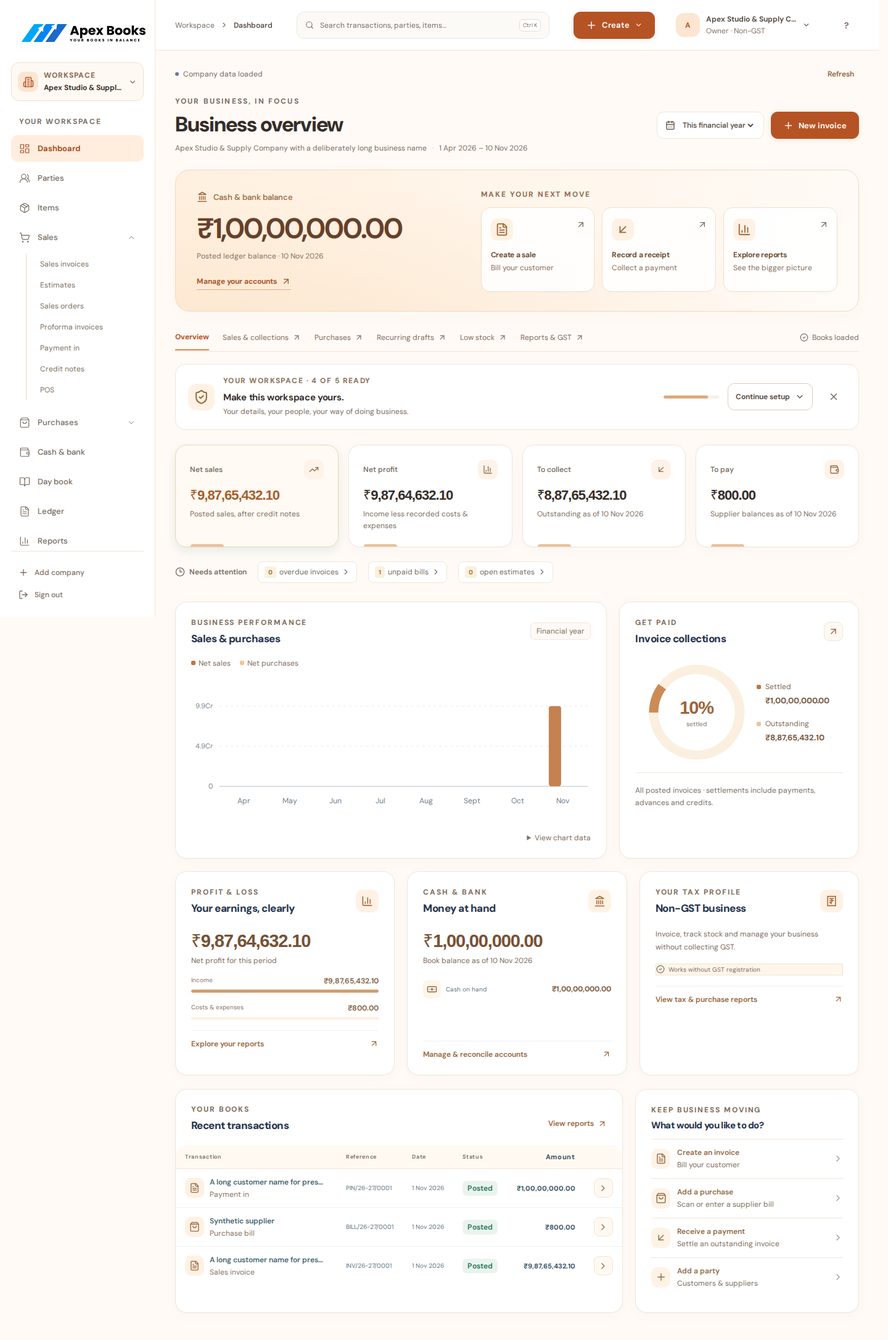
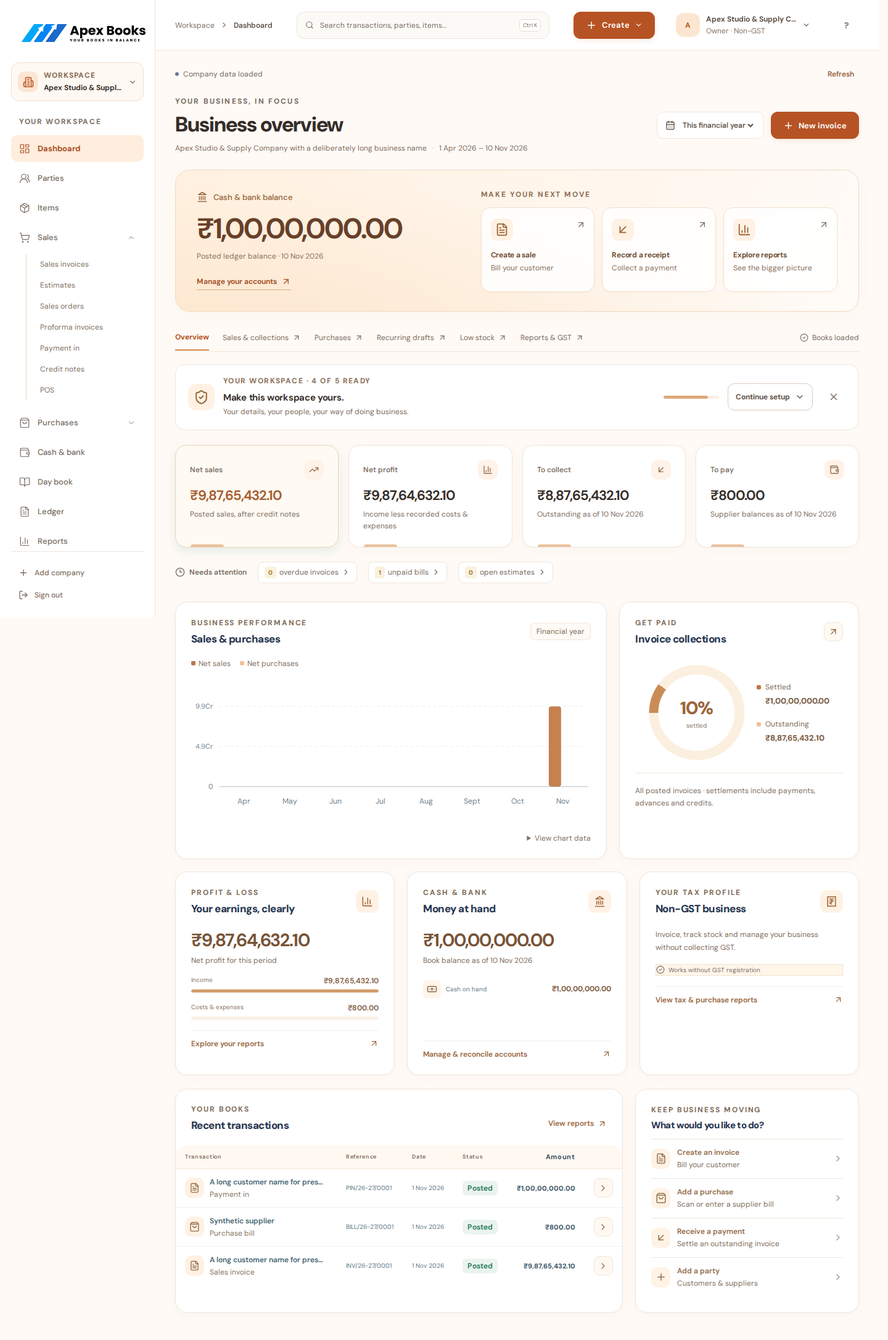
Unify financial typography and record verified Windows UI evidence

diff --git a/frontend/src/style.css b/frontend/src/style.css
@@ -13,10 +13,10 @@
 .upload-button{position:relative;overflow:hidden}.upload-button input{position:absolute;inset:0;opacity:0;cursor:pointer;width:100%;height:100%;margin:0}.bank-info{margin:0 0 18px}.bank-summary{margin-bottom:18px}.bank-match{display:flex;align-items:center;gap:7px;min-width:210px}.bank-match select{margin:0;min-width:135px}.bank-match input{width:100px;min-width:85px;margin:0}.bank-match-detail{display:grid;gap:6px;min-width:320px}.bank-allocation-status{font-size:12px;font-weight:700;color:#2d3f5e}.bank-allocation-row{display:flex;justify-content:space-between;align-items:center;gap:10px;font-size:12px}.bank-ref{display:block;color:#a1a5ad;margin-top:3px}
 .member-settings{border-top:1px solid #edeef1;border-bottom:1px solid #edeef1;padding:24px 0;margin:22px 0}.member-settings p{margin-top:5px}.member-form{display:grid;grid-template-columns:minmax(180px,2fr) minmax(110px,1fr) auto;gap:12px;align-items:end;margin-top:18px}.member-form .button{margin-bottom:0}@media(max-width:700px){.member-form{grid-template-columns:1fr}.member-form .button{width:100%}}
 .ocr-box{padding:15px;background:#f1f3f7;border:1px solid #e1e6ee;border-radius:8px}.ocr-box strong{font-size:12px}.ocr-box p{margin:4px 0 8px}.ocr-box input{padding:8px;height:auto;background:#ffffff}.ocr-box small{display:block;margin-top:6px;color:#546480}
-:root{font-family:'IBM Plex Sans',sans-serif;color:#242c3b;background:#f5f6f8;font-synthesis:none}*{box-sizing:border-box}body{margin:0}button,input,select{font:inherit}button{cursor:pointer}button:disabled{opacity:.55;cursor:not-allowed}h1,h2,p{margin:0}h1,h2{font-family:'IBM Plex Sans',sans-serif;letter-spacing:-.035em}h1{font-size:28px;font-weight:800}h2{font-size:17px;font-weight:800}p{color:#898e97;font-size:13px;line-height:1.6}.app{display:flex;min-height:100vh}.sidebar{position:fixed;inset:0 auto 0 0;width:240px;background:#ffffff;border-right:1px solid #e9ebee;display:flex;flex-direction:column;padding:25px 16px 15px;z-index:5}.brand{display:flex;align-items:center;gap:10px;font-family:'IBM Plex Sans',sans-serif;font-size:20px;font-weight:800;letter-spacing:-1px;padding:0 8px}.brand-mark{display:grid;place-items:center;width:34px;height:34px;border-radius:10px;background:#193057;color:#ffffff;font-size:21px;font-style:italic}.brand-light{font-weight:400}.brand small{display:block;font:700 7px 'IBM Plex Sans',sans-serif;letter-spacing:1.2px;color:#a3a8b0;margin-top:1px}.company-switch{display:flex;align-items:center;gap:10px;margin:32px 0 25px;background:#f5f6f8;border:1px solid #e9ebee;border-radius:9px;padding:10px}.company-icon{width:34px;height:34px;display:grid;place-items:center;background:#e5e8ee;color:#34496c;border-radius:7px}.company-text{min-width:0;flex:1}.company-text small{display:block;font-size:9px;font-weight:700;letter-spacing:.08em;color:#a0a5ad}.company-text select{border:0;outline:0;background:transparent;appearance:none;width:100%;font-weight:700;font-size:12px;color:#343c4b;text-overflow:ellipsis}.nav-label,.eyebrow{font-size:9px;letter-spacing:.13em;font-weight:700;color:#9ca1a9}.nav-label{padding:0 11px;margin-bottom:10px}nav{overflow:auto;flex:1}.nav-item,.subnav button,.sidebar-bottom button{border:0;background:none;width:100%;text-align:left;color:#717781}.nav-item{height:40px;display:flex;align-items:center;gap:12px;padding:0 11px;border-radius:7px;font-size:13px;font-weight:600}.nav-item span{flex:1}.nav-item.active,.subnav button.active{color:#19325c;background:#eaedf3}.nav-item svg:last-child.rotated{transform:rotate(180deg)}.subnav{border-left:1px solid #e4e7eb;margin:2px 0 5px 20px;padding-left:13px}.subnav button{font-size:12px;padding:8px 10px;border-radius:6px}.sidebar-bottom{border-top:1px solid #edeef0;padding-top:10px}.sidebar-bottom button{display:flex;gap:10px;align-items:center;padding:9px;font-size:12px}.main{margin-left:240px;width:calc(100% - 240px)}.topbar{height:68px;background:#ffffff;border-bottom:1px solid #e9ebee;display:flex;align-items:center;justify-content:space-between;padding:0 34px}.breadcrumbs{display:flex;align-items:center;gap:10px;font-size:12px;color:#a1a5ad}.breadcrumbs strong{color:#4b5360}.header-right{display:flex;align-items:center;gap:12px}.header-date{font-size:12px;color:#9196a0}.header-divider{height:25px;width:1px;background:#e7e9ec;margin:0 8px}.avatar{width:33px;height:33px;border-radius:50%;background:#e5e9ef;display:grid;place-items:center;color:#334b74;font-size:12px;font-weight:700}.header-user{font-weight:700;font-size:12px}.header-user small{display:block;font-size:10px;color:#a0a5ad;font-weight:400;margin-top:2px}.content{max-width:1600px;margin:auto;padding:38px 36px}.page-heading{display:flex;align-items:end;justify-content:space-between;gap:20px;margin-bottom:28px}.page-heading .eyebrow{margin-bottom:9px}.green{color:#4b628b!important}.page-heading h1 span{color:#b9c1cf;font-size:20px}.page-heading p{margin-top:7px}.button{height:40px;border-radius:7px;padding:0 15px;display:inline-flex;align-items:center;justify-content:center;gap:8px;font-size:12px;font-weight:700;border:1px solid transparent;white-space:nowrap}.primary{background:#1d3660;color:white}.primary:hover{background:#152a4d}.secondary{background:white;color:#4b5360;border-color:#e1e4e9}.summary-grid{display:grid;grid-template-columns:repeat(4,1fr);gap:16px}.summary-card,.panel{background:#ffffff;border:1px solid #e8eaee;border-radius:10px;box-shadow:0 3px 12px rgba(32,65,50,.025)}.summary-card{padding:19px 20px 18px}.summary-top{display:flex;align-items:center;justify-content:space-between;color:#989da6;font-size:9px;font-weight:700;letter-spacing:.09em}.summary-icon{width:32px;height:32px;border-radius:8px;display:grid;place-items:center}.summary-icon.green,.quick-icon{background:#eaeef4;color:#415a85}.summary-icon.orange{background:#fcf1e6;color:#cf8d51}.summary-icon.blue{background:#eaeef5;color:#6a81a9}.summary-icon.purple{background:#f2eef7;color:#9b85b4}.summary-card>strong{display:block;font-family:'IBM Plex Sans',sans-serif;font-size:23px;letter-spacing:-.04em;margin:14px 0 6px}.summary-card>small{color:#a2a6ae;font-size:11px}.dashboard-grid{display:grid;grid-template-columns:minmax(0,2fr) minmax(280px,1fr);gap:16px;margin-top:20px}.panel{overflow:hidden}.panel-header{display:flex;justify-content:space-between;align-items:center;gap:15px;padding:23px 23px 18px}.panel-header h2,.quick h2{margin-top:7px}.panel-header p,.quick>p{margin-top:4px}.text-button{display:flex;gap:5px;align-items:center;border:0;background:none;color:#415983;font-weight:700;font-size:11px}.table-wrap{overflow:auto}table{width:100%;border-collapse:collapse;min-width:530px}th{text-align:left;background:#f9fafb;color:#a1a5ad;font-size:9px;letter-spacing:.08em;font-weight:700;padding:12px 23px}td{border-top:1px solid #f1f2f4;padding:13px 23px;color:#828891;font-size:12px}.right{text-align:right}.amount{font-weight:700;color:#343d4d}.row-name{display:flex;align-items:center;gap:10px;color:#3d4655}.row-name strong,.row-name small{display:block}.row-name small{font-size:10px;color:#aaaeb5;margin-top:4px}.row-icon,.quick-icon{display:grid;place-items:center;width:36px;height:36px;border-radius:8px;background:#f1f3f6;color:#7082a0;flex-shrink:0}.pill{background:#f2f3f6;color:#6a7588;padding:5px 8px;border-radius:5px;font-size:10px}.empty{text-align:center;padding:45px 20px 50px}.empty span{display:grid;place-items:center;margin:0 auto 12px;width:42px;height:42px;border-radius:12px;background:#f0f2f6;color:#8693a9}.empty strong{font-size:12px}.empty p{font-size:11px;margin-top:4px}.quick{padding:23px}.quick-list{margin-top:20px}.quick-list button{width:100%;display:flex;align-items:center;text-align:left;gap:12px;border:0;border-top:1px solid #eff0f3;background:none;padding:13px 0}.quick-list button>span:nth-child(2){flex:1}.quick-list strong,.quick-list small{display:block}.quick-list strong{font-size:12px;color:#404857}.quick-list small{font-size:10px;color:#a2a6ae;margin-top:4px}.quick-list button>svg{color:#b4b9c1}.notice{margin-top:20px;background:#eaedf3;border:1px solid #e0e5ee;border-radius:9px;padding:17px 20px;display:flex;align-items:center;gap:14px;color:#516383}.notice>span:first-child{font-size:24px}.notice strong{font-size:12px;color:#42516b}.notice p{font-size:11px;color:#7c879a;margin-top:2px}.notice-end{margin-left:auto;font-size:9px;font-weight:700;letter-spacing:.1em;color:#9da6b5}.heading-actions{display:flex;gap:8px}.register .panel-header h2{margin:0}.search{display:flex;align-items:center;gap:8px;border:1px solid #e7e9ed;border-radius:7px;padding:0 10px;color:#9aa0ab}.search input{border:0;outline:0;height:36px;width:150px;font-size:12px}.settings-panel{padding:25px}.settings-panel p{margin-top:5px}.details{display:grid;grid-template-columns:repeat(2,1fr);gap:24px;margin:30px 0}.details small,.details strong{display:block}.details small{font-size:9px;letter-spacing:.08em;color:#a0a5ae;margin-bottom:6px}.details strong{font-size:13px}.info-box{padding:15px;border-radius:7px;background:#f4f5f8;color:#7a8291;font-size:12px;margin-top:20px}.overlay{position:fixed;inset:0;background:rgba(20,38,31,.45);display:grid;place-items:center;padding:20px;z-index:10}.modal{background:white;border-radius:12px;width:min(560px,100%);max-height:90vh;overflow:auto;padding:26px;box-shadow:0 20px 80px #1c382b30}.modal-heading{display:flex;justify-content:space-between;gap:15px;margin-bottom:24px}.modal-heading p{margin-top:5px}.icon-button{border:0;background:none;color:#878d98;padding:5px}.form-grid{display:grid;grid-template-columns:1fr 1fr;gap:16px}.form-grid .full{grid-column:1/-1}label{font-size:11px;font-weight:700;color:#4f5765}input{display:block;width:100%;border:1px solid #e2e5ea;border-radius:7px;height:41px;padding:0 11px;margin-top:7px;outline:0;color:#333c4b;background:#ffffff;font-size:13px}input:focus{border-color:#657da7;box-shadow:0 0 0 3px #e9edf4}.modal-actions{display:flex;justify-content:flex-end;gap:8px;margin-top:8px}.error{color:#a4413d;background:#fcf1ef;padding:10px;border-radius:6px;font-size:12px}.banner{margin-bottom:15px;cursor:pointer}.muted{color:#a4a8af;font-weight:400}.mobile-menu{display:none}.auth-page{min-height:100vh;display:grid;grid-template-columns:1fr 1fr;background:#ffffff}.auth-story{background:#17263f;color:white;display:flex;flex-direction:column;padding:46px 8%;position:relative;overflow:hidden}.auth-story:after{content:'✳';position:absolute;font-size:600px;line-height:1;right:-230px;bottom:-240px;color:#ffffff08}.brand.light{color:#ffffff;padding:0}.brand.light .brand-mark{background:#e9edf3;color:#1d3660}.auth-copy{margin:auto 0;position:relative;z-index:1}.auth-copy .eyebrow{color:#98a6be}.auth-copy h1{font-size:clamp(35px,4vw,55px);line-height:1.18;margin:20px 0}.auth-copy h1 em{font-style:normal;color:#a4b3ce}.auth-copy p{color:#abb4c3;max-width:390px;font-size:15px}.auth-foot{font-size:11px;color:#9aa5b9;display:flex;justify-content:space-between}.auth-form{display:grid;place-items:center;padding:35px}.auth-box{width:min(380px,100%)}.auth-box h2{font-size:28px;margin:12px 0}.auth-box>p{margin-bottom:28px}.auth-box label{display:block;margin-bottom:16px}.wide{width:100%;margin-top:10px}.auth-switch{text-align:center;color:#9499a2;font-size:12px;margin-top:25px}.link{border:0;background:none;color:#304c7b;font-weight:700}.mobile-backdrop{display:none}@media(max-width:1100px){.summary-grid{grid-template-columns:repeat(2,1fr)}.dashboard-grid{grid-template-columns:1fr}.quick-list{display:grid;grid-template-columns:1fr 1fr;gap:0 20px}}@media(max-width:700px){.sidebar{transform:translateX(-100%);transition:transform .2s}.sidebar.open{transform:translateX(0)}.mobile-backdrop{display:block;position:fixed;inset:0;background:#1b342b66;z-index:4}.main{width:100%;margin:0}.topbar{padding:0 18px;height:60px}.mobile-menu{display:block}.breadcrumbs{margin-right:auto;margin-left:8px}.header-date,.header-divider,.header-user{display:none}.content{padding:27px 18px}.page-heading{align-items:flex-start;flex-direction:column}.page-heading h1{font-size:24px}.summary-grid{gap:10px}.summary-card{padding:14px}.summary-card>strong{font-size:19px}.dashboard-grid{margin-top:12px}.quick-list{display:block}.notice-end{display:none}.heading-actions{flex-wrap:wrap}.auth-page{display:block}.auth-story{min-height:200px;padding:25px}.auth-copy{margin:32px 0 10px}.auth-copy h1{font-size:28px;margin:10px 0}.auth-copy p,.auth-foot{display:none}.auth-form{padding:45px 24px}.form-grid{grid-template-columns:1fr}.form-grid .full{grid-column:auto}.panel-header{padding:18px;flex-wrap:wrap}.search{width:100%}.search input{width:100%}}
-.audit-log{margin-top:24px;border-top:1px solid #e8eaee;padding-top:24px}.audit-log .settings-section-heading{display:flex;align-items:center;justify-content:space-between;gap:16px;margin-bottom:16px}.audit-log h3{font-family:'IBM Plex Sans',sans-serif;font-size:15px;margin:0}.audit-log .table-wrap{border:1px solid #e8eaee;border-radius:8px}.audit-log table{min-width:640px}.audit-log td,.audit-log th{padding:11px 13px}.audit-log .muted{padding:14px}
-.period-lock{margin-top:24px;border-top:1px solid #e8eaee;padding-top:24px}.period-lock h3{font-family:'IBM Plex Sans',sans-serif;font-size:15px;margin:0}.period-lock p{margin:6px 0}.period-lock-form{display:flex;align-items:end;gap:12px;margin-top:14px}.period-lock-form input{width:180px}.period-lock .error{margin-top:12px}@media(max-width:700px){.period-lock-form{align-items:stretch;flex-direction:column}.period-lock-form input{width:100%}}
-.account-security{margin-top:24px;border-top:1px solid #e8eaee;padding-top:24px}.account-security h3{font-family:'IBM Plex Sans',sans-serif;font-size:15px;margin:0}.account-security-form{display:grid;grid-template-columns:1fr 1fr auto;gap:12px;align-items:end;margin-top:16px}.account-security .error{margin-top:12px}@media(max-width:700px){.account-security-form{grid-template-columns:1fr}.account-security-form .button{width:100%}}
+:root{font-family:'DM Sans',sans-serif;color:#242c3b;background:#f5f6f8;font-synthesis:none}*{box-sizing:border-box}body{margin:0}button,input,select{font:inherit}button{cursor:pointer}button:disabled{opacity:.55;cursor:not-allowed}h1,h2,p{margin:0}h1,h2{font-family:'DM Sans',sans-serif;letter-spacing:-.035em}h1{font-size:28px;font-weight:800}h2{font-size:17px;font-weight:800}p{color:#898e97;font-size:13px;line-height:1.6}.app{display:flex;min-height:100vh}.sidebar{position:fixed;inset:0 auto 0 0;width:240px;background:#ffffff;border-right:1px solid #e9ebee;display:flex;flex-direction:column;padding:25px 16px 15px;z-index:5}.brand{display:flex;align-items:center;gap:10px;font-family:'DM Sans',sans-serif;font-size:20px;font-weight:800;letter-spacing:-1px;padding:0 8px}.brand-mark{display:grid;place-items:center;width:34px;height:34px;border-radius:10px;background:#193057;color:#ffffff;font-size:21px;font-style:italic}.brand-light{font-weight:400}.brand small{display:block;font:700 7px 'DM Sans',sans-serif;letter-spacing:1.2px;color:#a3a8b0;margin-top:1px}.company-switch{display:flex;align-items:center;gap:10px;margin:32px 0 25px;background:#f5f6f8;border:1px solid #e9ebee;border-radius:9px;padding:10px}.company-icon{width:34px;height:34px;display:grid;place-items:center;background:#e5e8ee;color:#34496c;border-radius:7px}.company-text{min-width:0;flex:1}.company-text small{display:block;font-size:9px;font-weight:700;letter-spacing:.08em;color:#a0a5ad}.company-text select{border:0;outline:0;background:transparent;appearance:none;width:100%;font-weight:700;font-size:12px;color:#343c4b;text-overflow:ellipsis}.nav-label,.eyebrow{font-size:9px;letter-spacing:.13em;font-weight:700;color:#9ca1a9}.nav-label{padding:0 11px;margin-bottom:10px}nav{overflow:auto;flex:1}.nav-item,.subnav button,.sidebar-bottom button{border:0;background:none;width:100%;text-align:left;color:#717781}.nav-item{height:40px;display:flex;align-items:center;gap:12px;padding:0 11px;border-radius:7px;font-size:13px;font-weight:600}.nav-item span{flex:1}.nav-item.active,.subnav button.active{color:#19325c;background:#eaedf3}.nav-item svg:last-child.rotated{transform:rotate(180deg)}.subnav{border-left:1px solid #e4e7eb;margin:2px 0 5px 20px;padding-left:13px}.subnav button{font-size:12px;padding:8px 10px;border-radius:6px}.sidebar-bottom{border-top:1px solid #edeef0;padding-top:10px}.sidebar-bottom button{display:flex;gap:10px;align-items:center;padding:9px;font-size:12px}.main{margin-left:240px;width:calc(100% - 240px)}.topbar{height:68px;background:#ffffff;border-bottom:1px solid #e9ebee;display:flex;align-items:center;justify-content:space-between;padding:0 34px}.breadcrumbs{display:flex;align-items:center;gap:10px;font-size:12px;color:#a1a5ad}.breadcrumbs strong{color:#4b5360}.header-right{display:flex;align-items:center;gap:12px}.header-date{font-size:12px;color:#9196a0}.header-divider{height:25px;width:1px;background:#e7e9ec;margin:0 8px}.avatar{width:33px;height:33px;border-radius:50%;background:#e5e9ef;display:grid;place-items:center;color:#334b74;font-size:12px;font-weight:700}.header-user{font-weight:700;font-size:12px}.header-user small{display:block;font-size:10px;color:#a0a5ad;font-weight:400;margin-top:2px}.content{max-width:1600px;margin:auto;padding:38px 36px}.page-heading{display:flex;align-items:end;justify-content:space-between;gap:20px;margin-bottom:28px}.page-heading .eyebrow{margin-bottom:9px}.green{color:#4b628b!important}.page-heading h1 span{color:#b9c1cf;font-size:20px}.page-heading p{margin-top:7px}.button{height:40px;border-radius:7px;padding:0 15px;display:inline-flex;align-items:center;justify-content:center;gap:8px;font-size:12px;font-weight:700;border:1px solid transparent;white-space:nowrap}.primary{background:#1d3660;color:white}.primary:hover{background:#152a4d}.secondary{background:white;color:#4b5360;border-color:#e1e4e9}.summary-grid{display:grid;grid-template-columns:repeat(4,1fr);gap:16px}.summary-card,.panel{background:#ffffff;border:1px solid #e8eaee;border-radius:10px;box-shadow:0 3px 12px rgba(32,65,50,.025)}.summary-card{padding:19px 20px 18px}.summary-top{display:flex;align-items:center;justify-content:space-between;color:#989da6;font-size:9px;font-weight:700;letter-spacing:.09em}.summary-icon{width:32px;height:32px;border-radius:8px;display:grid;place-items:center}.summary-icon.green,.quick-icon{background:#eaeef4;color:#415a85}.summary-icon.orange{background:#fcf1e6;color:#cf8d51}.summary-icon.blue{background:#eaeef5;color:#6a81a9}.summary-icon.purple{background:#f2eef7;color:#9b85b4}.summary-card>strong{display:block;font-family:'DM Sans',sans-serif;font-size:23px;letter-spacing:-.04em;margin:14px 0 6px}.summary-card>small{color:#a2a6ae;font-size:11px}.dashboard-grid{display:grid;grid-template-columns:minmax(0,2fr) minmax(280px,1fr);gap:16px;margin-top:20px}.panel{overflow:hidden}.panel-header{display:flex;justify-content:space-between;align-items:center;gap:15px;padding:23px 23px 18px}.panel-header h2,.quick h2{margin-top:7px}.panel-header p,.quick>p{margin-top:4px}.text-button{display:flex;gap:5px;align-items:center;border:0;background:none;color:#415983;font-weight:700;font-size:11px}.table-wrap{overflow:auto}table{width:100%;border-collapse:collapse;min-width:530px}th{text-align:left;background:#f9fafb;color:#a1a5ad;font-size:9px;letter-spacing:.08em;font-weight:700;padding:12px 23px}td{border-top:1px solid #f1f2f4;padding:13px 23px;color:#828891;font-size:12px}.right{text-align:right}.amount{font-weight:700;color:#343d4d}.row-name{display:flex;align-items:center;gap:10px;color:#3d4655}.row-name strong,.row-name small{display:block}.row-name small{font-size:10px;color:#aaaeb5;margin-top:4px}.row-icon,.quick-icon{display:grid;place-items:center;width:36px;height:36px;border-radius:8px;background:#f1f3f6;color:#7082a0;flex-shrink:0}.pill{background:#f2f3f6;color:#6a7588;padding:5px 8px;border-radius:5px;font-size:10px}.empty{text-align:center;padding:45px 20px 50px}.empty span{display:grid;place-items:center;margin:0 auto 12px;width:42px;height:42px;border-radius:12px;background:#f0f2f6;color:#8693a9}.empty strong{font-size:12px}.empty p{font-size:11px;margin-top:4px}.quick{padding:23px}.quick-list{margin-top:20px}.quick-list button{width:100%;display:flex;align-items:center;text-align:left;gap:12px;border:0;border-top:1px solid #eff0f3;background:none;padding:13px 0}.quick-list button>span:nth-child(2){flex:1}.quick-list strong,.quick-list small{display:block}.quick-list strong{font-size:12px;color:#404857}.quick-list small{font-size:10px;color:#a2a6ae;margin-top:4px}.quick-list button>svg{color:#b4b9c1}.notice{margin-top:20px;background:#eaedf3;border:1px solid #e0e5ee;border-radius:9px;padding:17px 20px;display:flex;align-items:center;gap:14px;color:#516383}.notice>span:first-child{font-size:24px}.notice strong{font-size:12px;color:#42516b}.notice p{font-size:11px;color:#7c879a;margin-top:2px}.notice-end{margin-left:auto;font-size:9px;font-weight:700;letter-spacing:.1em;color:#9da6b5}.heading-actions{display:flex;gap:8px}.register .panel-header h2{margin:0}.search{display:flex;align-items:center;gap:8px;border:1px solid #e7e9ed;border-radius:7px;padding:0 10px;color:#9aa0ab}.search input{border:0;outline:0;height:36px;width:150px;font-size:12px}.settings-panel{padding:25px}.settings-panel p{margin-top:5px}.details{display:grid;grid-template-columns:repeat(2,1fr);gap:24px;margin:30px 0}.details small,.details strong{display:block}.details small{font-size:9px;letter-spacing:.08em;color:#a0a5ae;margin-bottom:6px}.details strong{font-size:13px}.info-box{padding:15px;border-radius:7px;background:#f4f5f8;color:#7a8291;font-size:12px;margin-top:20px}.overlay{position:fixed;inset:0;background:rgba(20,38,31,.45);display:grid;place-items:center;padding:20px;z-index:10}.modal{background:white;border-radius:12px;width:min(560px,100%);max-height:90vh;overflow:auto;padding:26px;box-shadow:0 20px 80px #1c382b30}.modal-heading{display:flex;justify-content:space-between;gap:15px;margin-bottom:24px}.modal-heading p{margin-top:5px}.icon-button{border:0;background:none;color:#878d98;padding:5px}.form-grid{display:grid;grid-template-columns:1fr 1fr;gap:16px}.form-grid .full{grid-column:1/-1}label{font-size:11px;font-weight:700;color:#4f5765}input{display:block;width:100%;border:1px solid #e2e5ea;border-radius:7px;height:41px;padding:0 11px;margin-top:7px;outline:0;color:#333c4b;background:#ffffff;font-size:13px}input:focus{border-color:#657da7;box-shadow:0 0 0 3px #e9edf4}.modal-actions{display:flex;justify-content:flex-end;gap:8px;margin-top:8px}.error{color:#a4413d;background:#fcf1ef;padding:10px;border-radius:6px;font-size:12px}.banner{margin-bottom:15px;cursor:pointer}.muted{color:#a4a8af;font-weight:400}.mobile-menu{display:none}.auth-page{min-height:100vh;display:grid;grid-template-columns:1fr 1fr;background:#ffffff}.auth-story{background:#17263f;color:white;display:flex;flex-direction:column;padding:46px 8%;position:relative;overflow:hidden}.auth-story:after{content:'✳';position:absolute;font-size:600px;line-height:1;right:-230px;bottom:-240px;color:#ffffff08}.brand.light{color:#ffffff;padding:0}.brand.light .brand-mark{background:#e9edf3;color:#1d3660}.auth-copy{margin:auto 0;position:relative;z-index:1}.auth-copy .eyebrow{color:#98a6be}.auth-copy h1{font-size:clamp(35px,4vw,55px);line-height:1.18;margin:20px 0}.auth-copy h1 em{font-style:normal;color:#a4b3ce}.auth-copy p{color:#abb4c3;max-width:390px;font-size:15px}.auth-foot{font-size:11px;color:#9aa5b9;display:flex;justify-content:space-between}.auth-form{display:grid;place-items:center;padding:35px}.auth-box{width:min(380px,100%)}.auth-box h2{font-size:28px;margin:12px 0}.auth-box>p{margin-bottom:28px}.auth-box label{display:block;margin-bottom:16px}.wide{width:100%;margin-top:10px}.auth-switch{text-align:center;color:#9499a2;font-size:12px;margin-top:25px}.link{border:0;background:none;color:#304c7b;font-weight:700}.mobile-backdrop{display:none}@media(max-width:1100px){.summary-grid{grid-template-columns:repeat(2,1fr)}.dashboard-grid{grid-template-columns:1fr}.quick-list{display:grid;grid-template-columns:1fr 1fr;gap:0 20px}}@media(max-width:700px){.sidebar{transform:translateX(-100%);transition:transform .2s}.sidebar.open{transform:translateX(0)}.mobile-backdrop{display:block;position:fixed;inset:0;background:#1b342b66;z-index:4}.main{width:100%;margin:0}.topbar{padding:0 18px;height:60px}.mobile-menu{display:block}.breadcrumbs{margin-right:auto;margin-left:8px}.header-date,.header-divider,.header-user{display:none}.content{padding:27px 18px}.page-heading{align-items:flex-start;flex-direction:column}.page-heading h1{font-size:24px}.summary-grid{gap:10px}.summary-card{padding:14px}.summary-card>strong{font-size:19px}.dashboard-grid{margin-top:12px}.quick-list{display:block}.notice-end{display:none}.heading-actions{flex-wrap:wrap}.auth-page{display:block}.auth-story{min-height:200px;padding:25px}.auth-copy{margin:32px 0 10px}.auth-copy h1{font-size:28px;margin:10px 0}.auth-copy p,.auth-foot{display:none}.auth-form{padding:45px 24px}.form-grid{grid-template-columns:1fr}.form-grid .full{grid-column:auto}.panel-header{padding:18px;flex-wrap:wrap}.search{width:100%}.search input{width:100%}}
+.audit-log{margin-top:24px;border-top:1px solid #e8eaee;padding-top:24px}.audit-log .settings-section-heading{display:flex;align-items:center;justify-content:space-between;gap:16px;margin-bottom:16px}.audit-log h3{font-family:'DM Sans',sans-serif;font-size:15px;margin:0}.audit-log .table-wrap{border:1px solid #e8eaee;border-radius:8px}.audit-log table{min-width:640px}.audit-log td,.audit-log th{padding:11px 13px}.audit-log .muted{padding:14px}
+.period-lock{margin-top:24px;border-top:1px solid #e8eaee;padding-top:24px}.period-lock h3{font-family:'DM Sans',sans-serif;font-size:15px;margin:0}.period-lock p{margin:6px 0}.period-lock-form{display:flex;align-items:end;gap:12px;margin-top:14px}.period-lock-form input{width:180px}.period-lock .error{margin-top:12px}@media(max-width:700px){.period-lock-form{align-items:stretch;flex-direction:column}.period-lock-form input{width:100%}}
+.account-security{margin-top:24px;border-top:1px solid #e8eaee;padding-top:24px}.account-security h3{font-family:'DM Sans',sans-serif;font-size:15px;margin:0}.account-security-form{display:grid;grid-template-columns:1fr 1fr auto;gap:12px;align-items:end;margin-top:16px}.account-security .error{margin-top:12px}@media(max-width:700px){.account-security-form{grid-template-columns:1fr}.account-security-form .button{width:100%}}
 .bank-accounts-panel{margin-bottom:18px}.bank-account-heading{display:flex;align-items:end;justify-content:space-between;gap:18px}.bank-account-heading label{min-width:220px}.bank-create-form{display:grid;grid-template-columns:minmax(180px,2fr) minmax(140px,1fr) auto;gap:12px;align-items:end;margin-top:18px}.bank-create-form .button{margin-bottom:0}@media(max-width:700px){.bank-account-heading{align-items:stretch;flex-direction:column}.bank-account-heading label{min-width:0}.bank-create-form{grid-template-columns:1fr}.bank-create-form .button{width:100%}}
 .bank-reconcile-filters{display:grid;grid-template-columns:minmax(160px,190px) minmax(180px,220px) 1fr;gap:12px;align-items:end;margin-top:18px;padding-top:18px;border-top:1px solid #edeef1}.bank-reconcile-filters p{padding-bottom:8px}@media(max-width:700px){.bank-reconcile-filters{grid-template-columns:1fr}.bank-reconcile-filters p{padding-bottom:0}}
 @media(max-width:700px){.bank-statement-panel .table-wrap{overflow:visible}.bank-statement-panel table,.bank-statement-panel tbody,.bank-statement-panel tr,.bank-statement-panel td{display:block;width:100%;min-width:0}.bank-statement-panel thead{display:none}.bank-statement-panel tr{padding:14px 18px;border-top:1px solid #edeef1}.bank-statement-panel td{border:0;padding:3px 0;text-align:left}.bank-statement-panel td:first-child{font-size:11px}.bank-statement-panel td:nth-child(3){margin:5px 0;color:#343d4d}.bank-statement-panel .bank-match-detail{min-width:0}.bank-statement-panel .bank-match{flex-wrap:wrap;min-width:0}.bank-statement-panel .bank-match select{width:100%}.bank-statement-panel .bank-match input{flex:1}.bank-statement-panel .bank-allocation-row{align-items:flex-start;flex-wrap:wrap}}

diff --git a/frontend/src/workspace.css b/frontend/src/workspace.css
@@ -22,7 +22,7 @@ button,
 input,
 select,
 textarea {
-  font-family: 'IBM Plex Sans', sans-serif;
+  font-family: 'DM Sans', sans-serif;
 }
 button:focus-visible,
 a:focus-visible,
@@ -526,7 +526,7 @@ h2 {
 .overview-metric > strong {
   display: block;
   font:
-    800 27px 'IBM Plex Sans',
+    800 27px 'DM Sans',
     sans-serif;
   letter-spacing: -1px;
   margin-top: 14px;
@@ -753,7 +753,7 @@ h2 {
 }
 .collection-ring strong {
   font:
-    800 25px 'IBM Plex Sans',
+    800 25px 'DM Sans',
     sans-serif;
   color: #293a58;
   letter-spacing: -1px;
@@ -838,7 +838,7 @@ h2 {
 .insight-total {
   display: block;
   font:
-    800 26px 'IBM Plex Sans',
+    800 26px 'DM Sans',
     sans-serif;
   letter-spacing: -1px;
   color: #2a4656;
@@ -1798,7 +1798,7 @@ h2 {
 }
 .register-overview strong {
   font:
-    800 21px 'IBM Plex Sans',
+    800 21px 'DM Sans',
     sans-serif;
   letter-spacing: -0.6px;
   color: #355568;

diff --git a/tests/e2e/browser_presentation.py b/tests/e2e/browser_presentation.py
@@ -90,6 +90,7 @@ with sync_playwright() as p:
             page.set_viewport_size({'width': width, 'height': 1000})
             page.evaluate('scrollTo(0,0)')
             capture(f'dashboard-{width}')
+            assert page.locator('.overview-metric > strong, .collection-ring strong').evaluate_all('nodes => nodes.every(n => getComputedStyle(n).fontFamily.includes("DM Sans"))'), 'Financial figures use an unbundled font'
             assert page.locator('.overview-metric > strong').evaluate_all('''nodes => nodes.every(n =>
                 n.getBoundingClientRect().height <= parseFloat(getComputedStyle(n).lineHeight) * 1.2)'''), f'Amount wraps at {width}px'
 

diff --git a/docs/UI_RELEASE_POLISH.md b/docs/UI_RELEASE_POLISH.md
@@ -4,7 +4,7 @@ The Apricot design is retained across React, Jetpack Compose and WinUI. This rev
 
 ## What changed
 
-- Web supporting text has consistent contrast and readable sizing across dashboards, registers, reports and settings. Phone metrics use the available width so complete amounts remain on one line. Company headings truncate within their own bounds.
+- Web text and financial figures use the bundled DM Sans font, including older shorthand styles. Supporting text has consistent contrast and readable sizing across dashboards, registers, reports and settings. Phone metrics use the available width so complete amounts remain on one line. Company headings truncate within their own bounds.
 - The phone navigation drawer has a close action, focus containment, Escape dismissal, background isolation and focus return. A keyboard skip link reaches the workspace. Document dialogs lock background scrolling and preserve scroll position.
 - Register overflow actions use the browser top layer, with arrow-key navigation and focus return. Menus stay visible beyond table boundaries. Scrollable tables accept keyboard focus.
 - Invoice discounts have room for both their mode and numeric input. Phone adjustment labels wrap, footer actions respect safe areas, and input text remains at least 16 px on phones. Sign-in supports password visibility and credential autofill.
@@ -22,6 +22,10 @@ The Apricot design is retained across React, Jetpack Compose and WinUI. This rev
 
 ![Phone invoice with the date and party fields inside their bounds](images/release-polish/web-invoice-phone.png)
 
+| Windows restored workspace | Windows invoice entry |
+| --- | --- |
+| ![Native Windows dashboard after verified restore](images/release-polish/windows-desktop.png) | ![Native Windows invoice entry](images/release-polish/windows-invoice.png) |
+
 ## Verification
 
 | Gate | Current evidence |
@@ -34,8 +38,8 @@ The Apricot design is retained across React, Jetpack Compose and WinUI. This rev
 | Presentation and accessibility | Passed 88 axe scans, six dashboard widths (320–1920 px), all 13 entry forms at phone and desktop sizes, all 16 reports, registered-GST invoice layouts at five widths and three GST working papers, every settings category, keyboard drawer/menu operation and dialog scroll locking. |
 | Android debug build, units and lint | Passed: 52 unit tests (one optional HTTP unit case skipped), debug and instrumentation builds, and lint. All four real Android 10 emulator journeys passed, including billing, collection, company switching, retained receipts and encrypted backup/restore. The genuine UI journey also passed again with a 150% system-text check. Bottom navigation uses an untruncated Entries label on phones and keeps the full Transactions accessibility name. |
 | Windows portable client | Passed. |
-| Windows source syntax, XAML XML and UI harness | All 44 application C# files parsed; XAML files are well formed; the UI automation harness compiles with no warnings. The harness now resizes the genuine app window and checks header controls. This does not establish WinUI application compilation or runtime behaviour. |
-| Windows native build/UI and unsigned release | Both Android and Windows unsigned release builds passed in [CI](https://github.com/alpesh15gb/ApexBooks/actions/runs/42702080660). The current [PR checks](https://github.com/alpesh15gb/ApexBooks/pull/48/checks) track the final revision and genuine Windows UI gate. |
+| Windows source syntax, XAML XML and UI harness | All 44 application C# files parsed; XAML files are well formed; the UI automation harness compiles with no warnings. The harness resizes the genuine app window and checks header controls. |
+| Windows native build/UI and unsigned release | Both Android and Windows unsigned release builds passed. [Windows genuine UI acceptance](https://github.com/alpesh15gb/ApexBooks/actions/runs/42706010025) passed all 34 checks: sign-in/company switching, narrow-window header, invoice entry, one partial receipt, draft protection, native receipt picker, encrypted save/open/restore and canonical restored balances/evidence. The [PR checks](https://github.com/alpesh15gb/ApexBooks/pull/48/checks) track the final revision. |
 
 Reproduce:
 
